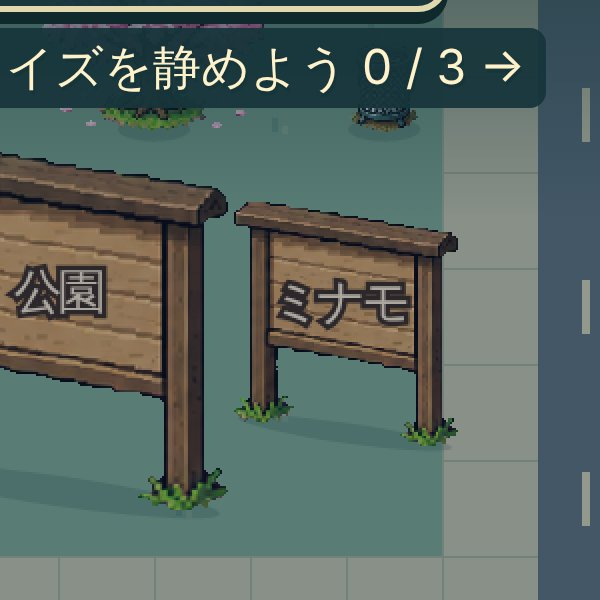
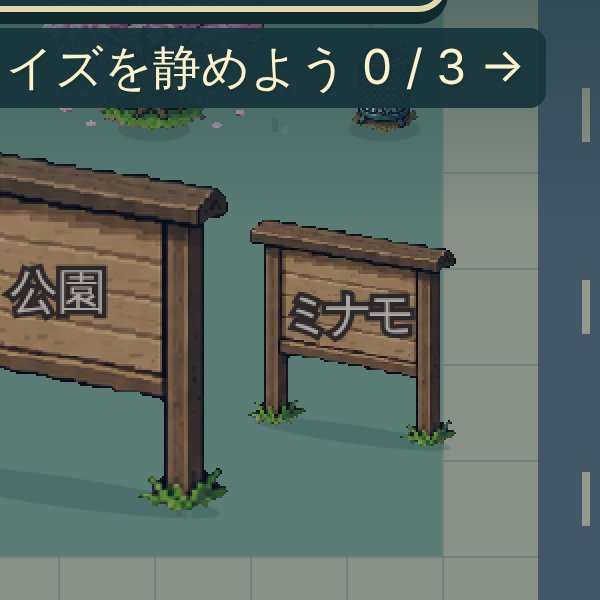
R524: 看板の大きさと場所は元のまま、ミナモの看板だけ字の間を4pxつめた
Claude-Session: https://claude.ai/code/session_012y4xpfxG3yWaBpH1fHJiTm

Changed region(s): [[0.39, 0.33, 0.78, 0.75], [0.0, 0.42, 0.12, 0.54]]

diff --git a/v5/index.html b/v5/index.html
@@ -828,9 +828,6 @@ function signX(o){const x=o.x*TILE;if(o.kind!=='numberperson')return x;const hal
 // R96: it also gets a dark plate, so a lamp head behind it (when the sign slides at the screen edge) does not show through 「いいね 3204」.
 const SIGN_PLATE='#1f2a44e6';
 // R100: a board sign's words sit at the middle of its board (fraction of the frame height, centre of the 24px glyphs); props 11 is the park sign, whose board runs 0.27..0.73 across between its posts.
-// R524: between the posts of a board (props 11) the wood is 112 of the 236 px picture, so on the ミナモ board the 24px 「ミナモ」 ran onto both posts.
-// The words on a board are set 2px closer (the letters keep their 24px size) and centred by their ink, not their advance (the canvas adds the spacing after the last letter too).
-const BOARD_TRACK={'props:11':-2};
 const SIGN_BOARD={'props:11':.516},SIGN_BOARD_TOP={'props:11':.2}; // R133: the park board picture is clear above its beam (49 of 248 px)
 // R100: the big park sign turns see-through while the hero stands behind it, so the hero is never hidden by its board.
 function seeThrough(o){if(!o.sign||!SIGN_BOARD[o.kind+':'+o.frame]||g.y>=o.foot)return false;const d=dimensions(o);return Math.abs(g.x-o.x*TILE)<d.w/2+12&&g.y>o.foot-d.h*(1-(frameFor(o.kind,o.frame)?.top??SIGN_BOARD_TOP[o.kind+':'+o.frame]??0));}
@@ -848,7 +845,7 @@ const SIGN_ADULT={'そとへ':'外へ','うえへ':'上へ','したへ':'下へ'
 function signOf(o){return g.mode!=='adult'||!o.sign?o.sign:SIGN_ADULT[o.sign]||o.sign.replace(/^(ランク [0-9]+)い$/,'$1位');}
 // R304: on とう1F the pad's ↑ うえへ was a dark green plate next to the pale yellow ↓ そとへ exit plate, so the two ways out looked like two kinds of thing. A pad sign now uses the exit plate's colours (yellow plate, dark words).
 const EXIT_PLATE='#e7d29f';
-function drawSign(o){const sy=signY(o),text=signOf(o);if(signCut(o))return;if(o.kind!=='numberperson'&&o.kind!=='tower'&&Math.abs(o.x*TILE-camera.x-W/2)>W/2-signHalf(text)-4)return;fieldSignRects.push([sy-30-camera.y,sy+10-camera.y]);const arrow=o.kind!=='tower'?'':TOWER_ARROW[o.sign]||'';if(o.kind==='tower'){const tw=[...text].length*24+20+(arrow?30:0);rect(o.x*TILE-tw/2,sy-27,tw,36,EXIT_PLATE);}const sx=signX(o)+(arrow?15:0);if(arrow){ctx.font="24px 'Hiragino Sans',system-ui,sans-serif";ctx.textAlign='center';ctx.lineWidth=5;ctx.strokeStyle=EXIT_PLATE;ctx.strokeText(arrow,sx-signHalf(text)-18,sy);label(arrow,sx-signHalf(text)-18,sy,'#4b655f',24);}if(o.kind==='numberperson'){const half=signHalf(text),l=Math.max(camera.x+2,sx-half-8),r=Math.min(camera.x+W-2,sx+half+8);rect(l,sy-25,r-l,32,SIGN_PLATE);}ctx.font="24px 'Hiragino Sans',system-ui,sans-serif";ctx.textAlign='center';const pad=o.kind==='tower',track=BOARD_TRACK[o.kind+':'+o.frame]||0;let tx=sx;if(track){ctx.letterSpacing=track+'px';const m=ctx.measureText(text);tx+=(m.actualBoundingBoxLeft-m.actualBoundingBoxRight)/2||0;}ctx.lineWidth=5;ctx.strokeStyle=pad?EXIT_PLATE:'#3b2a1b';ctx.strokeText(text,tx,sy);label(text,tx,sy,pad?'#3b4f4a':'#fbeccb',24);if(track)ctx.letterSpacing='0px';}
+function drawSign(o){const sy=signY(o),text=signOf(o);if(signCut(o))return;if(o.kind!=='numberperson'&&o.kind!=='tower'&&Math.abs(o.x*TILE-camera.x-W/2)>W/2-signHalf(text)-4)return;fieldSignRects.push([sy-30-camera.y,sy+10-camera.y]);const arrow=o.kind!=='tower'?'':TOWER_ARROW[o.sign]||'';if(o.kind==='tower'){const tw=[...text].length*24+20+(arrow?30:0);rect(o.x*TILE-tw/2,sy-27,tw,36,EXIT_PLATE);}const sx=signX(o)+(arrow?15:0);if(arrow){ctx.font="24px 'Hiragino Sans',system-ui,sans-serif";ctx.textAlign='center';ctx.lineWidth=5;ctx.strokeStyle=EXIT_PLATE;ctx.strokeText(arrow,sx-signHalf(text)-18,sy);label(arrow,sx-signHalf(text)-18,sy,'#4b655f',24);}if(o.kind==='numberperson'){const half=signHalf(text),l=Math.max(camera.x+2,sx-half-8),r=Math.min(camera.x+W-2,sx+half+8);rect(l,sy-25,r-l,32,SIGN_PLATE);}ctx.font="24px 'Hiragino Sans',system-ui,sans-serif";ctx.textAlign='center';const pad=o.kind==='tower',track=o.signTrack||0;/* R524: a board whose word is too wide for it sets its letters closer (ミナモ) */let tx=sx;if(track){ctx.letterSpacing=track+'px';const m=ctx.measureText(text);tx+=(m.actualBoundingBoxLeft-m.actualBoundingBoxRight)/2||0;}ctx.lineWidth=5;ctx.strokeStyle=pad?EXIT_PLATE:'#3b2a1b';ctx.strokeText(text,tx,sy);label(text,tx,sy,pad?'#3b4f4a':'#fbeccb',24);if(track)ctx.letterSpacing='0px';}
 function label(text,x,y,color='#fff1c6',size=24){ctx.fillStyle=color;ctx.font=`${size}px 'Hiragino Sans',system-ui,sans-serif`;ctx.textAlign='center';ctx.fillText(text,x,y);}
 function ellipse(x,y,rx,ry,color){ctx.fillStyle=color;ctx.beginPath();ctx.ellipse(x,y,rx,ry,0,0,Math.PI*2);ctx.fill();}
 // R149: the number people's art has a small 1-4 floating over each head that never matched the sign (じゅんい 86 ...); the rows above the head (out of 452) are not drawn, so only the sign tells the number.

diff --git a/v5/data/ch2.js b/v5/data/ch2.js
@@ -25,9 +25,9 @@ maps.minamo={name:'ミナモちょう',short:'ミナモちょう',w:30,h:36,outs
  // R522: at x 12.42 the right post (art x 174-194 of 236) stood about 16px onto the sidewalk (x 13) while the left post was on the grass, so the board straddled the edge;
  // it moved 0.35 tiles west so both posts stand on the grass (only the grass tuft at its foot reaches the curb) and it still keeps R505's 12px from the park board.
  // Its blocking band starts a little further in (left .24, the default is .15), so walking straight north from the spawn (x 10.9) still passes it as before.
- // R524: at 136px the wood between the posts was only about 65px wide and the 24px 「ミナモ」 ran onto both posts. It is 148px now and its words are set
- // 2px closer (BOARD_TRACK). It grew to the west only (x 12.07 -> 11.99), so the right post stays on the grass; the blocking band starts at .29 so the spawn column still passes.
- prop('minamo_sign',11,11.99,25.9,148,{dialogue:'minamoSign',sign:'ミナモ',collider:{left:.29,right:.85,top:.78,bottom:1}}),
+ // R524: between its posts the wood is only about 66px, and the 24px 「ミナモ」 (about 67px of ink) ran onto both posts. The board cannot grow here
+ // (the spawn column is on its west and the sidewalk on its east), so its words are set 4px closer (signTrack) and centred by their ink.
+ prop('minamo_sign',11,12.07,25.9,136,{dialogue:'minamoSign',sign:'ミナモ',signTrack:-4,collider:{left:.24,right:.85,top:.78,bottom:1}}),
  // R289: at 240px the board stood far taller than the houses and trees around it (mobile-20); it keeps its feet and is now 224px like the town's board (below about 217px the 24px words would touch the posts).
  // R506: its whole bottom band blocked x 7.3-10.7, and with the ミナモ board (R505) right beside it only about 18px at x 11 was left for the hero to walk north into the park;
  // like the town's こうえん board only its left post blocks now, so the way in between the posts stays open.

diff --git a/autodev/ROADMAP.md b/autodev/ROADMAP.md
@@ -528,7 +528,7 @@
 - [x] R521 | 相手がいない時に後ろへ人が来ると「話す」の地が金色がかった灰色に変わっていたので、いない時と同じ濃い色のまま薄くした | tools/smoke_v5.cjs で全章を通し、スクショを確認役に見せて気になる所を挙げさせ、一番大きい1つを直す。直した所の前と後のスクショがある
 - [x] R522 | ミナモの看板の右の柱だけ歩道に立ち、芝と歩道の境目をまたいでいたので、看板を少し左に立てて柱を2本とも芝に載せた | tools/smoke_v5.cjs で全章を通し、スクショを確認役に見せて気になる所を挙げさせ、一番大きい1つを直す。直した所の前と後のスクショがある
 - [x] R523 | ボス戦でボスの台詞からソラのヒントへ入れ替わる時、札の濃い地が半秒ほど消えて町が透けていたので、続けて出る間は地を濃いまま残し文字だけを入れ替えた | tools/smoke_v5.cjs で全章を通し、スクショを確認役に見せて気になる所を挙げさせ、一番大きい1つを直す。直した所の前と後のスクショがある
-- [x] R524 | ミナモの看板で「ミナモ」の字が板からはみ出し、両側の柱にかかっていたので、看板を少し大きくし字の間を2pxつめて板の中に収めた | tools/smoke_v5.cjs で全章を通し、スクショを確認役に見せて気になる所を挙げさせ、一番大きい1つを直す。直した所の前と後のスクショがある
+- [x] R524 | ミナモの看板で「ミナモ」の字が板からはみ出し、両側の柱にかかっていたので、この看板だけ字の間を4pxつめて板の中に収めた | tools/smoke_v5.cjs で全章を通し、スクショを確認役に見せて気になる所を挙げさせ、一番大きい1つを直す。直した所の前と後のスクショがある
 
 ## くりかえし
 

diff --git a/autodev/last_run.md b/autodev/last_run.md
@@ -1,5 +1,5 @@
 - ミナモの看板で、字が両側の柱にかかっていたのを直した
-- 看板を136から148pxにし、字の間を2pxつめて形の中心でそろえた
+- 看板は周りに余地がないので大きさと場所はそのまま、字の間を4pxつめた
 - 前と後のスクショを docs/shots/R524 に置き、テストを足した
 次: 確認役が挙げた「話す」ボタンの中の暗い楕円のしみを見直す
 時刻: 2026-11-13 09:46
